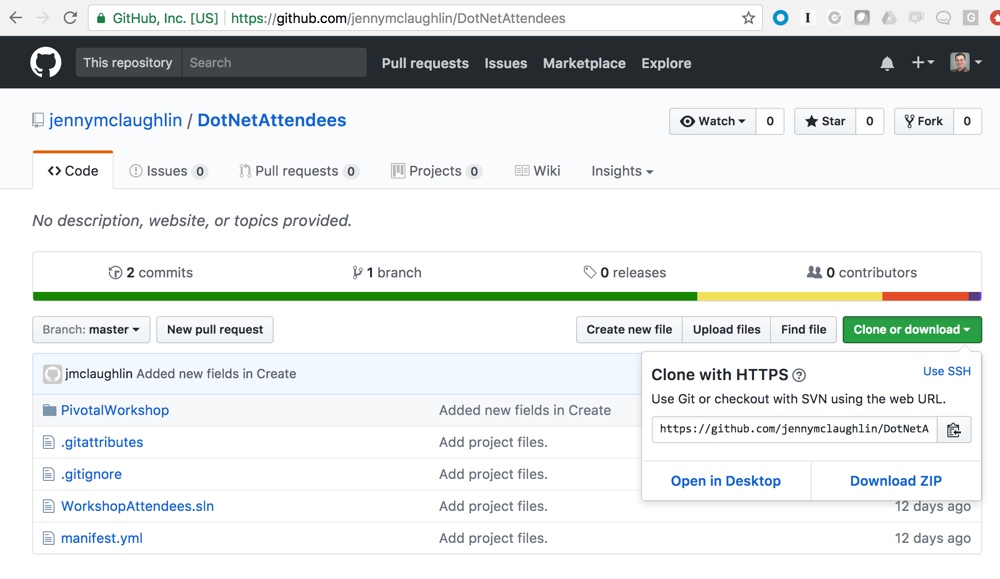
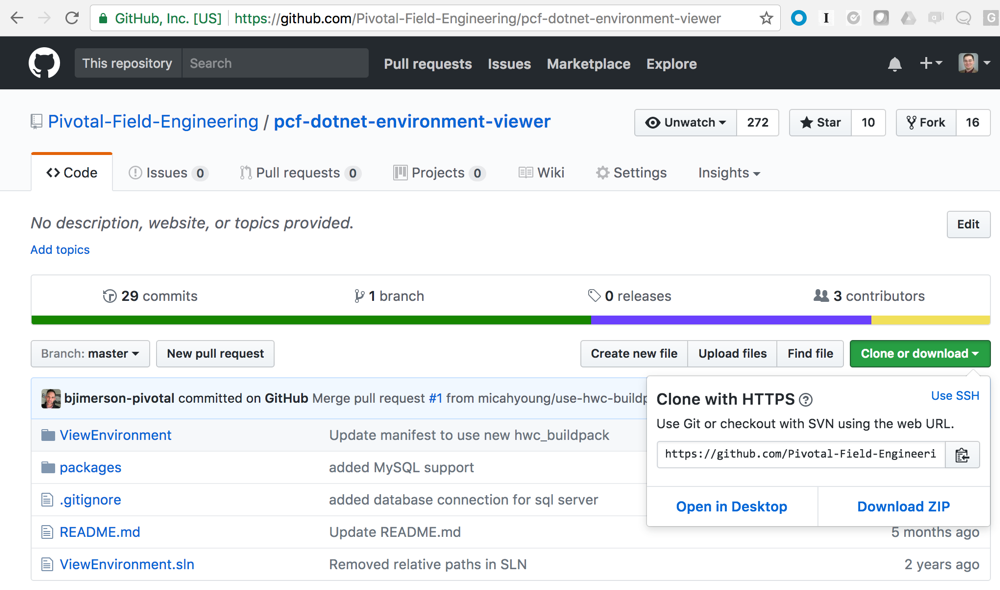
Added .NET Framework app

diff --git a/content/post/lab-9.md b/content/post/lab-9.md
@@ -16,10 +16,13 @@ To deploy a Microsoft Framework .NET Application and a .NET Core Application to 
 
 Prerequisites
 --
+1. Install .NET Core 1.x
 
-1. Clone or Download the Dot Net Attendee Source Code
+    [.NET Core](https://www.microsoft.com/net/core)
 
-	[Dot Net Attendees:  https://github.com/jennymclaughlin/DotNetAttendees](https://github.com/jennymclaughlin/DotNetAttendees)
+2. Clone or Download the Dot Net Attendee Source Code
+
+	[Dot Net Environment Viewer:  https://github.com/Pivotal-Field-Engineering/pcf-dotnet-environment-viewer](https://github.com/Pivotal-Field-Engineering/pcf-dotnet-environment-viewer)
 
 	##### Get the source code repository app
 
@@ -28,25 +31,25 @@ Prerequisites
 	Download the source code. Download as Zip file and save it in local folder
 
 	```bash
-	   unzip DotNetAttendees-master.zip
+	   unzip pcf-dotnet-environment-viewer-master.zip
 	```
 	##### ---OR---
 
 	Fork and Clone
 
-	[Dot Net Attendees:  https://github.com/jennymclaughlin/DotNetAttendees](https://github.com/jennymclaughlin/DotNetAttendees)
+	[Dot Net Environment Viewer:  https://github.com/Pivotal-Field-Engineering/pcf-dotnet-environment-viewer](https://github.com/Pivotal-Field-Engineering/pcf-dotnet-environment-viewer)
 
 	For Linux/Mac:
 	```bash
-	$git clone https://github.com/jennymclaughlin/DotNetAttendees.git
+	$git clone https://github.com/Pivotal-Field-Engineering/pcf-dotnet-environment-viewer.git
 	```
 
 	For Windows
 	```
-	C:\<Some Directory to save code>\> git clone https://github.com/jennymclaughlin/DotNetAttendees.git
+	C:\<Some Directory to save code>\> git clone https://github.com/Pivotal-Field-Engineering/pcf-dotnet-environment-viewer.git
 	```
 	
-2. Clone or Download the Dot Net Core Demo Source Code
+3. Clone or Download the Dot Net Core Demo Source Code
 
 	[Dot Net Core Repo:  https://github.com/jennymclaughlin/dotnetcoreCFdemo](https://github.com/jennymclaughlin/dotnetcoreCFdemo)
 
@@ -101,6 +104,48 @@ In this workshop we are going to follow these steps to deploy .NET Framework and
 
 ***
 ### Step 1
-##### Build the app
-By this point, you should have cloned (or forked, or downloaded) the [DotNetAttendees Repo](https://github.com/jennymclaughlin/DotNetAttendees) and the [Dot Net Core Repo](https://github.com/jennymclaughlin/dotnetcoreCFdemo).  Now you will build the project and deploy it to Cloud Foundry.
+##### Build the Dot Net Environment Viewer Application
+By this point, you should have cloned (or forked, or downloaded) the [DotNetAttendees Repo](https://github.com/Pivotal-Field-Engineering/pcf-dotnet-environment-viewer.git).  Now prepare the application to deploy to Cloud Foundry. 
+
+For this example, we do not need to "build" the application. For other .NET Framework applicaitons, you would publish the project to a specified folder and do the "cf push" from that folder. 
+
+Change into the correct folder. Notice that we are going down two levels to the ViewEnvironment Folder:
+
+Linux/Mac:
+
+    cd pcf-dotnet-environment-viewer/ViewEnvironment
+
+
+Windows:
+
+    cd pcf-dotnet-environment-viewer\ViewEnvironment
+
+
+### Step 2
+##### Login into Pivotal Cloud Foundry (if necessary)
+
+Each participant will have their own user ids and passwords.  
+
+````
+cf login -a https://api.sys.cloud.rick-ross.com --skip-ssl-validation
+  Email: myuserid
+  Password: ••••••••
+
+  Select a space (or press enter to skip):
+  1. development
+  2. test
+  3. production
+
+  Select any one and stick to that space for the rest of the workshop.
+
+````
+
+Login to the App Console at https://app.cloud.rick-ross.com
+
+<img src="/images/pcf-console.png" alt="PCF App Console" style="width: 70%;"/>
+
+
+### Step 4
+##### Push the app
+
 

diff --git a/content/post/lab-1.md b/content/post/lab-1.md
@@ -148,23 +148,23 @@ Login to the App Console at https://app.cloud.rick-ross.com
 ##### Push the app
 
 
-1. Push the cities-hello, put your initials in the app name so we don't get conflicts
+1. Push the PCF DotNet Environment Viewer
 
     ```bash
-    $ cd cities-hello
-    $ cf push <yourinitials>-cities-hello
+    $ cf push 
     // This will give an output which is similar to this
     requested state: started
     instances: 1/1
     usage: 512M x 1 instances
-    urls: cities-hello-lactiferous-unanswerableness.sys.cloud.rick-ross.com
-    last uploaded: Mon Jun 15 14:53:10 UTC 2015
-    stack: cflinuxfs2
+    urls: env-noninductive-nursling.app.cloud.rick-ross.com
+    last uploaded: Thu Aug 31 19:41:33 UTC 2017
+    stack: windows2012R2
+    buildpack: hwc_buildpack
     ```
 2. Open the app url
 
     When you push the apps, it will give the url route to the app.
-    <img src="/images/welcome.png" alt="Welcome to PCF Workshop" style="width: 70%;"/>
+    <img src="/images/pcf-env-viewer.png" alt="PCF Environment Viewer" style="width: 70%;"/>
 
 3. If you haven't already it is a good time to walk through the AppsManager:
 
